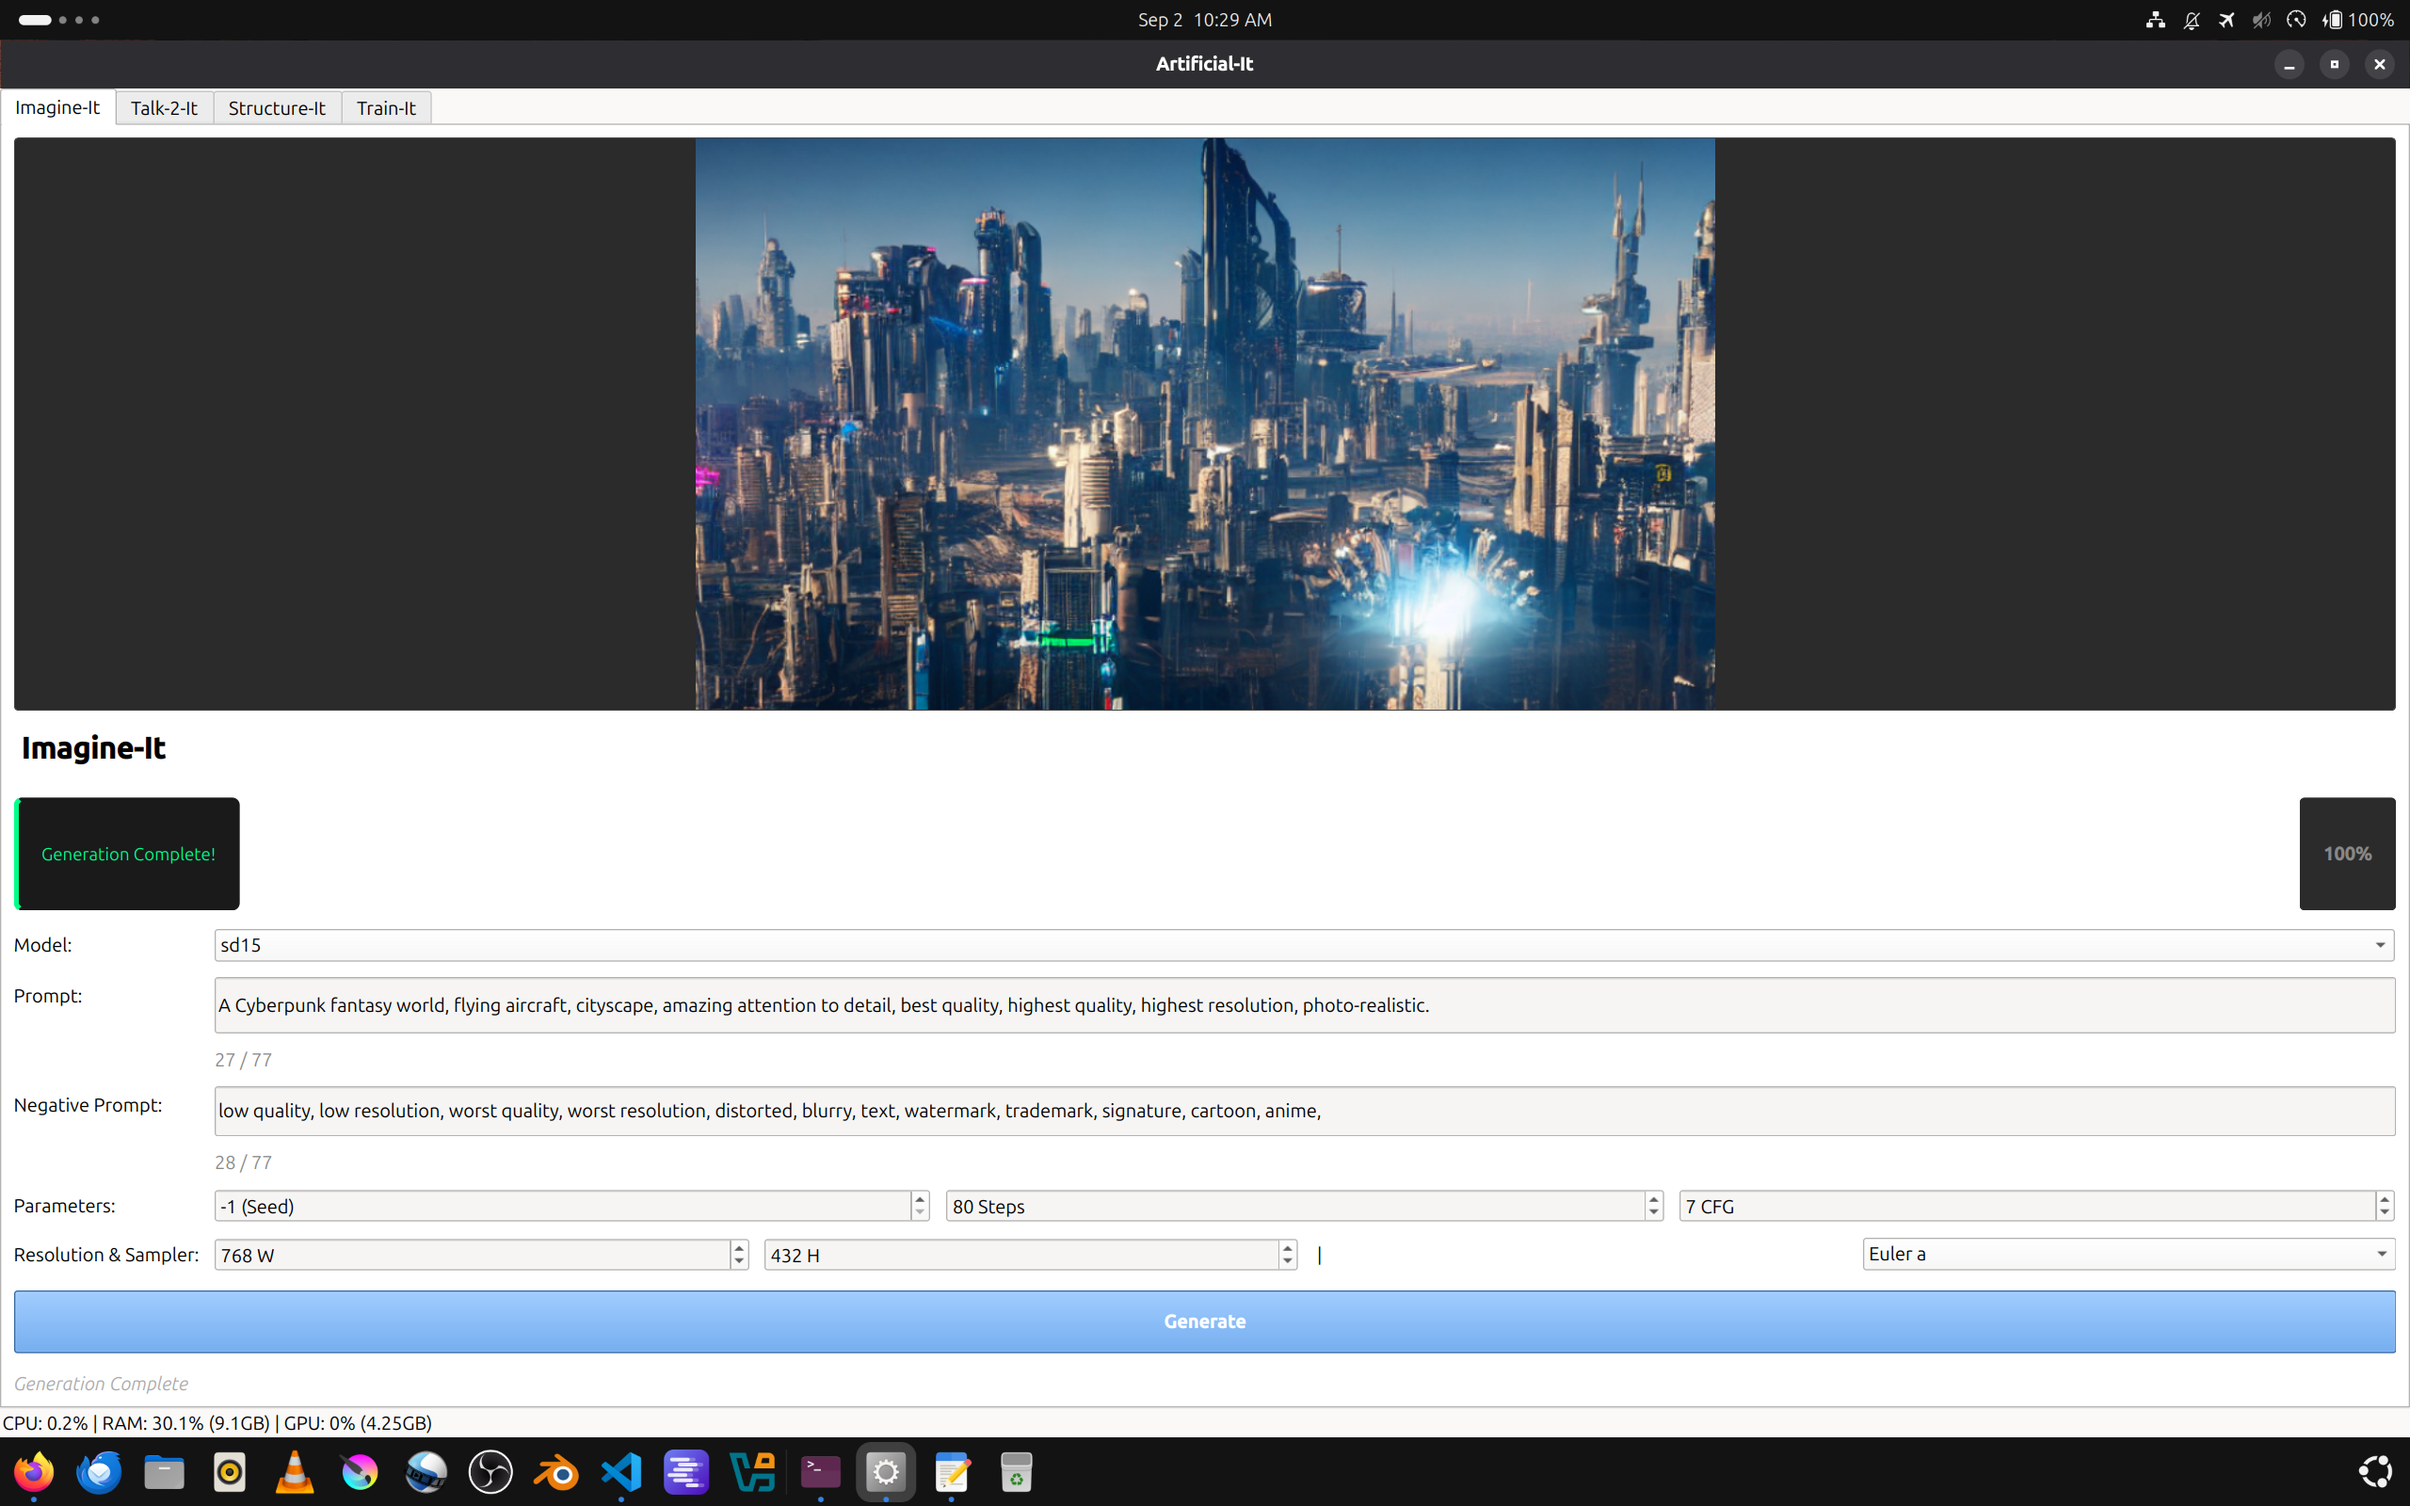
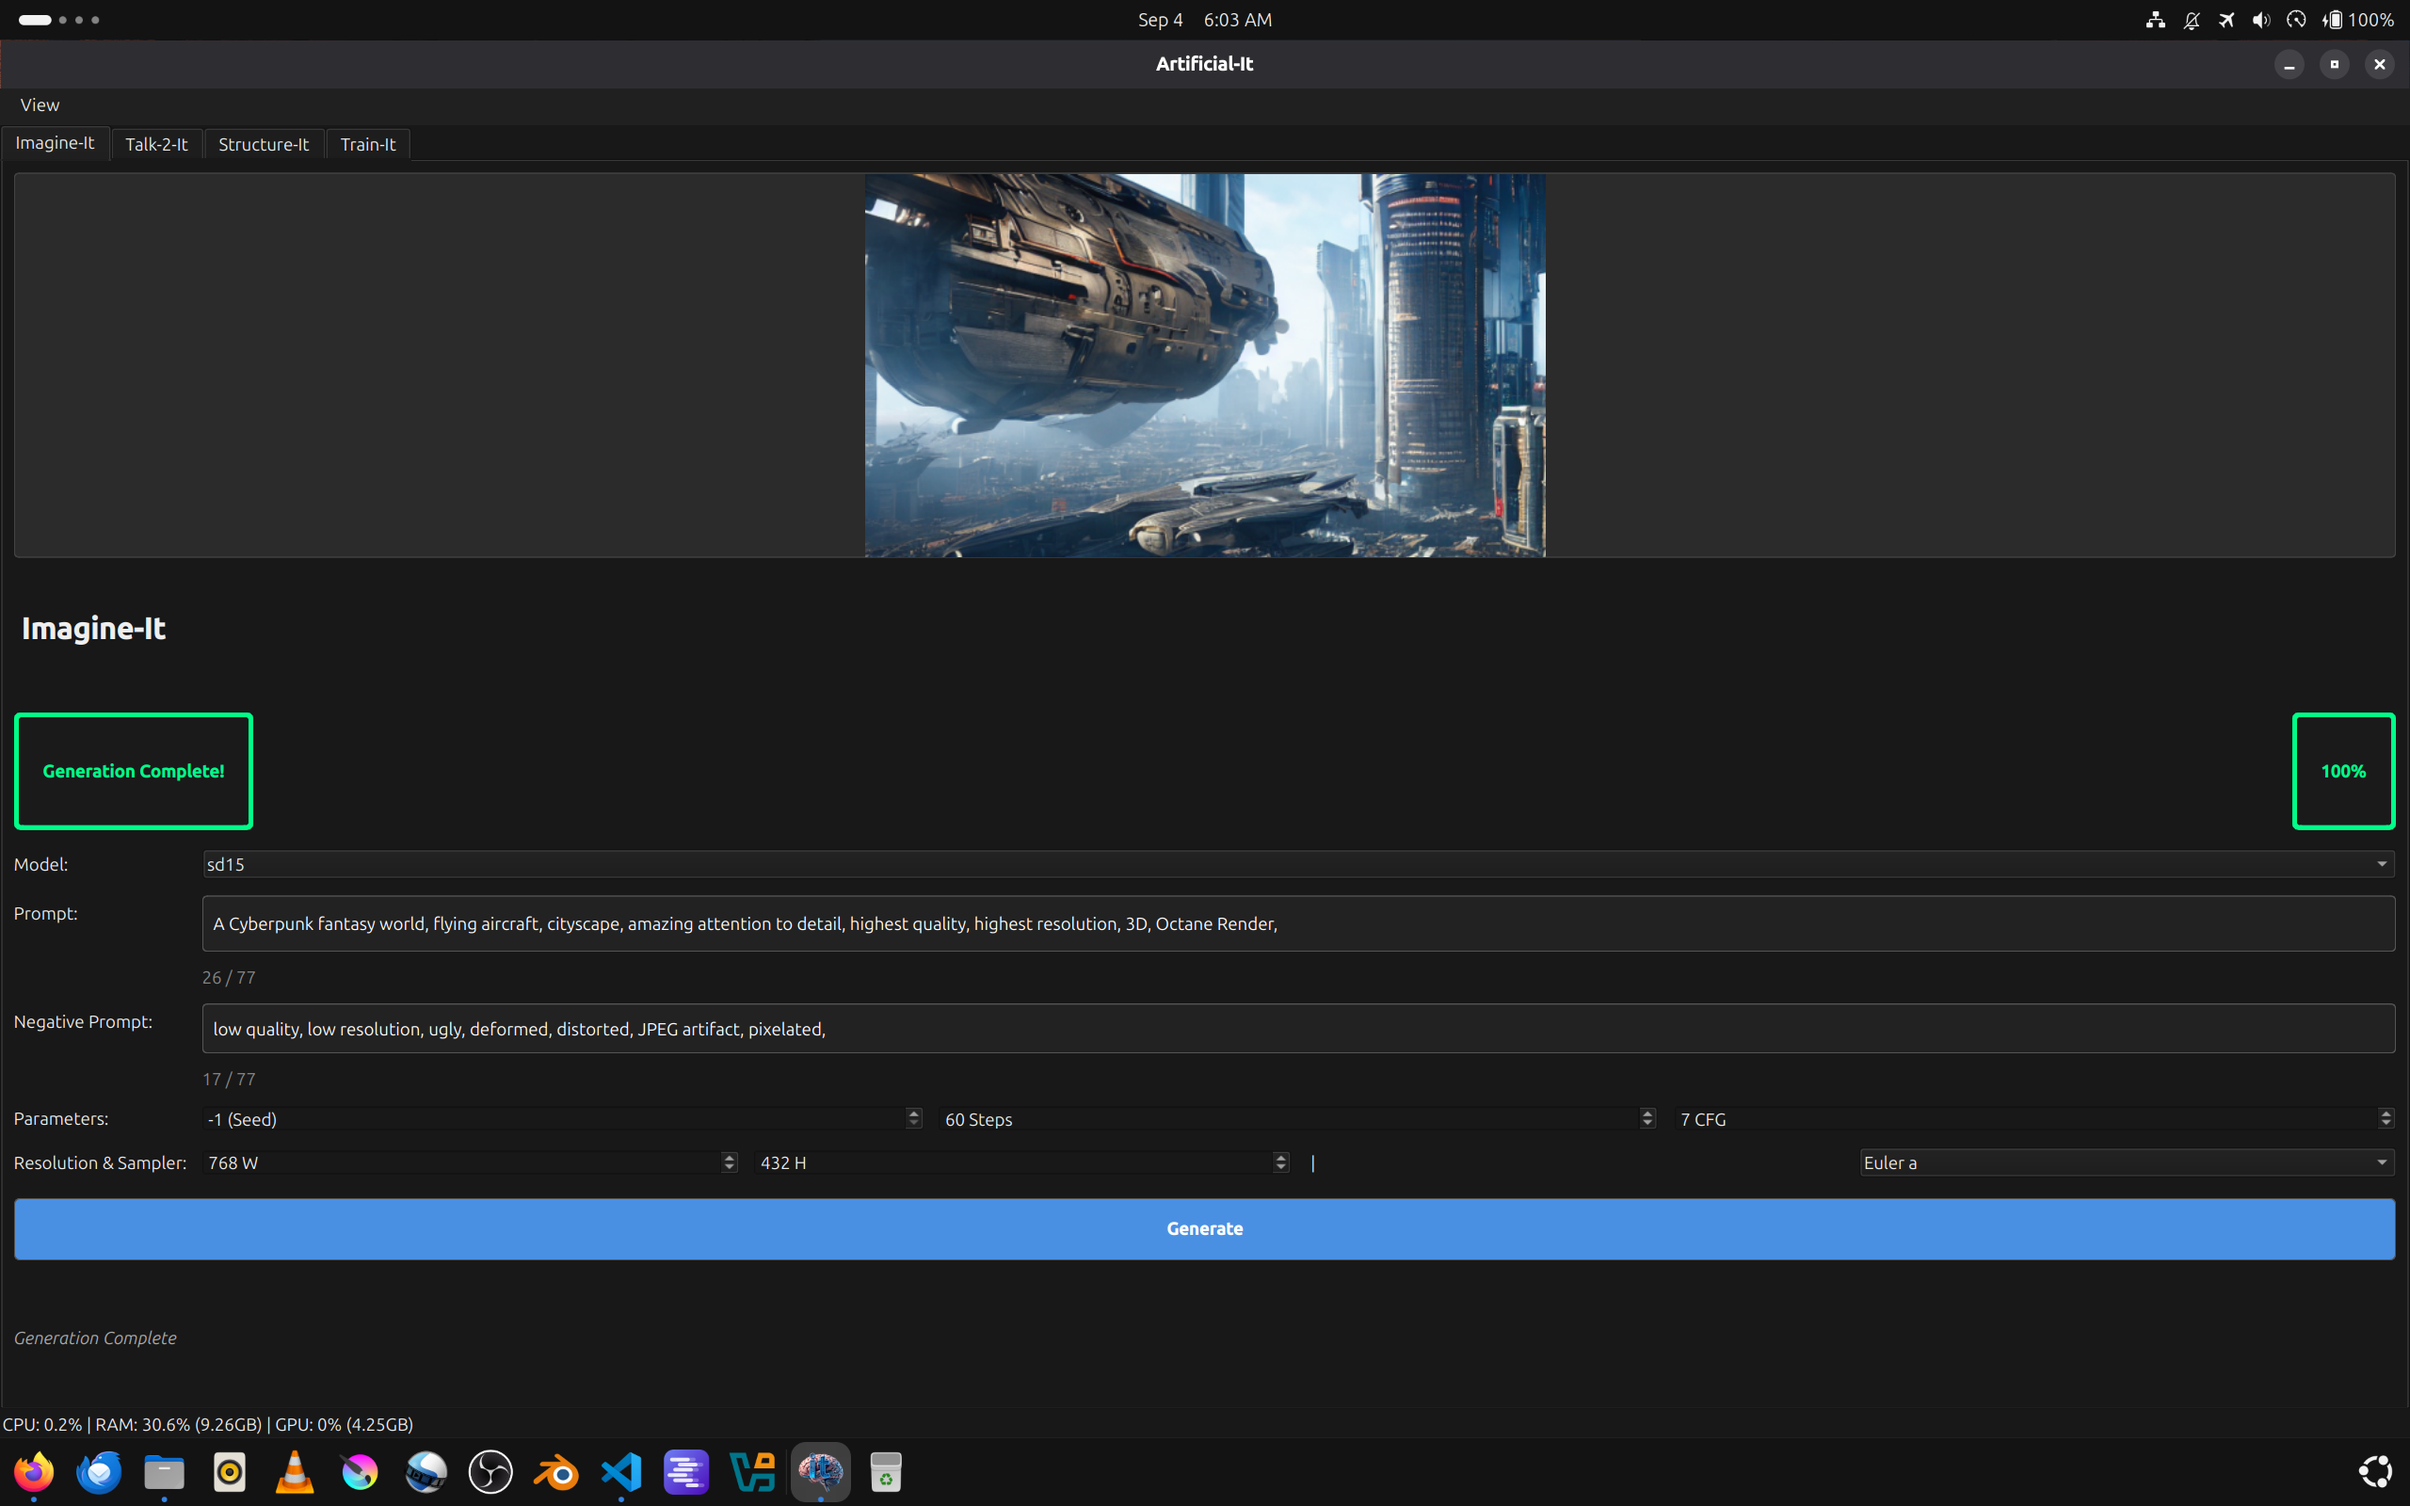
Updates to GitHub layout.

diff --git a/src/ui/tabs/imagine_it.py b/src/ui/tabs/imagine_it.py
@@ -35,20 +35,27 @@ class ImagineItTab(QWidget):
             padding: 15px;
             border-radius: 6px;
             font-size: 14px;
+            font-weight: bold;
             border-left: 4px solid #00ff88;
             border-right: 4px solid #00ff88;
             border-top: 4px solid #00ff88;
             border-bottom: 4px solid #00ff88;
-            min-height: 60px;
+            min-height: 20px;
         """)
 
         self.live_progress_label = QLabel("0%")
         self.live_progress_label.setStyleSheet("""
-            background-color: #2b2b2b;
-            color: #888;
-            padding: 10px 15px;
-            border-radius: 4px;
+            background-color: #1a1a1a;
+            color: #00ff88;
+            padding: 15px;
+            border-radius: 6px;
+            font-size: 14px;
             font-weight: bold;
+            border-left: 4px solid #00ff88;
+            border-right: 4px solid #00ff88;
+            border-top: 4px solid #00ff88;
+            border-bottom: 4px solid #00ff88;
+            min-height: 20px;
         """)
 
         preview_layout = QHBoxLayout()

diff --git a/src/ui/main_window.py b/src/ui/main_window.py
@@ -15,9 +15,7 @@ from ui.tabs.imagine_it import ImagineItTab
 from ui.tabs.talk_2_it import Talk2ItTab
 from ui.tabs.structure_it import StructureItTab
 from ui.tabs.train_it import TrainItTab
-import shutil  # ADD: Import for directory removal
-import sys
-from pathlib import Path
+import shutil
 
 class MainWindow(QMainWindow):
 

diff --git a/README.md b/README.md
@@ -1,4 +1,4 @@
-# Artificial-It ![Alt Text](icons/64x64.png)
+# Artificial-It ![Alt Text](icons/32x32.png)
 
 ![Alt Text](Screenshot.png)
 
